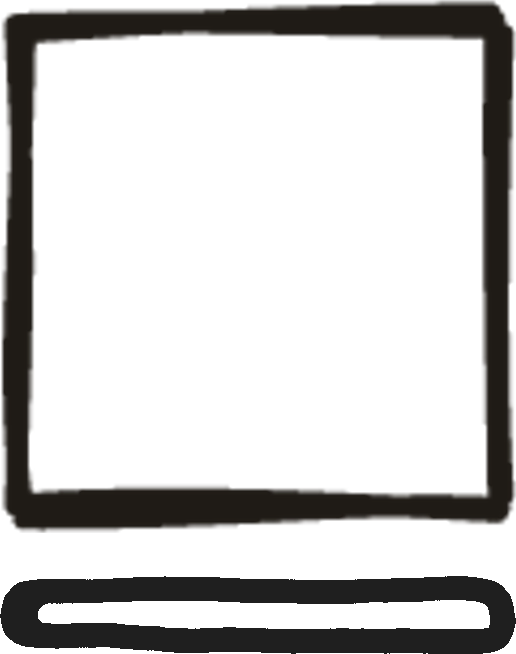
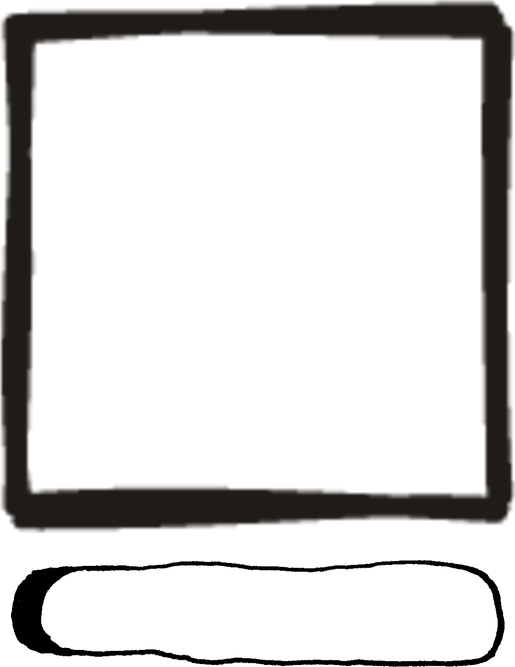
Remove header bee line; truer-to-drawing tab underline
- Bee-line divider under the header removed (drawing and the Drawn
  full-width option that only it used); header gets bottom padding.
- Selected-tab underline re-cut faithfully: scaled uniformly with no
  outline thickening, rounded ends kept as drawn, only the straight
  middle stretched/shortened to each word's width; sits a little
  closer under the word.

diff --git a/src/styles/global.css b/src/styles/global.css
@@ -42,8 +42,8 @@ body {
 .app {
   height: 100dvh;
   display: grid;
-  /* Header, bee-line divider, then content. */
-  grid-template-rows: auto auto 1fr;
+  /* Header, then content. */
+  grid-template-rows: auto 1fr;
   background: var(--page);
   overflow: hidden;
 }
@@ -54,7 +54,7 @@ body {
   align-items: flex-start;
   gap: 4px;
   min-height: 0;
-  padding: max(6px, env(safe-area-inset-top)) 2% 0;
+  padding: max(6px, env(safe-area-inset-top)) 2% 10px;
   position: relative;
   z-index: 2;
   view-transition-name: topbar;
@@ -75,12 +75,6 @@ body {
   max-width: 100%;
   object-fit: contain;
   object-position: left center;
-}
-
-/* Hand-drawn bee line splitting the header from the page. */
-.divider img.drawn {
-  width: 100%;
-  height: auto;
 }
 
 /* Tabs sit in the upper right. */
@@ -110,13 +104,13 @@ body {
 }
 
 .cart-tab {
-  /* Height of the cart drawing; the box is its top 81% (the rest is room for the underline). */
+  /* Height of the cart drawing; the box is its top 80% (the rest is room for the underline). */
   --cart-h: 38px;
 }
 
 .cart-count {
   place-self: start center;
-  margin-top: calc(var(--cart-h) * 0.405 - var(--digit-h) / 2);
+  margin-top: calc(var(--cart-h) * 0.4 - var(--digit-h) / 2);
   font-size: 15px;
   line-height: 1;
   color: var(--ink);
@@ -292,7 +286,7 @@ a:active img.drawn,
     display: grid;
     grid-template-columns: 1fr auto 1fr;
     align-items: start;
-    padding: 18px 32px 0;
+    padding: 18px 32px 16px;
   }
 
   .tabs {
@@ -317,9 +311,6 @@ a:active img.drawn,
     justify-self: end;
   }
 
-  .divider {
-    padding-inline: max(32px, calc((100% - var(--wide)) / 2));
-  }
 
   /* Drawings switch to their computer size (webH in Drawn.astro). */
   img.drawn {
@@ -336,12 +327,6 @@ a:active img.drawn,
 
   .tabs {
     gap: 20px;
-  }
-
-  /* The bee line spans the header width at a sensible height. */
-  .divider img.drawn {
-    height: 64px;
-    object-fit: fill;
   }
 
   /* Page content sits in a centered column. */

diff --git a/README.md b/README.md
@@ -34,7 +34,6 @@ Things with an `-on` version need two drawings: normal, and selected (circled, f
 | What | Files | Notes |
 |---|---|---|
 | Logo | `logo` ✓ done | upper left of the header (also used for the app icon) |
-| Divider | `bee-line` ✓ done | full-width line under the header |
 | Digits | `digit-0` … `digit-9` ✓ done | cart count + quantities |
 | Tabs | `tab-shop` ✓ done, `tab-about` ✓ done | upper right of the header |
 | Cart box | `cart-box` + `cart-box-on` | an empty square; the item count is typed inside it |
